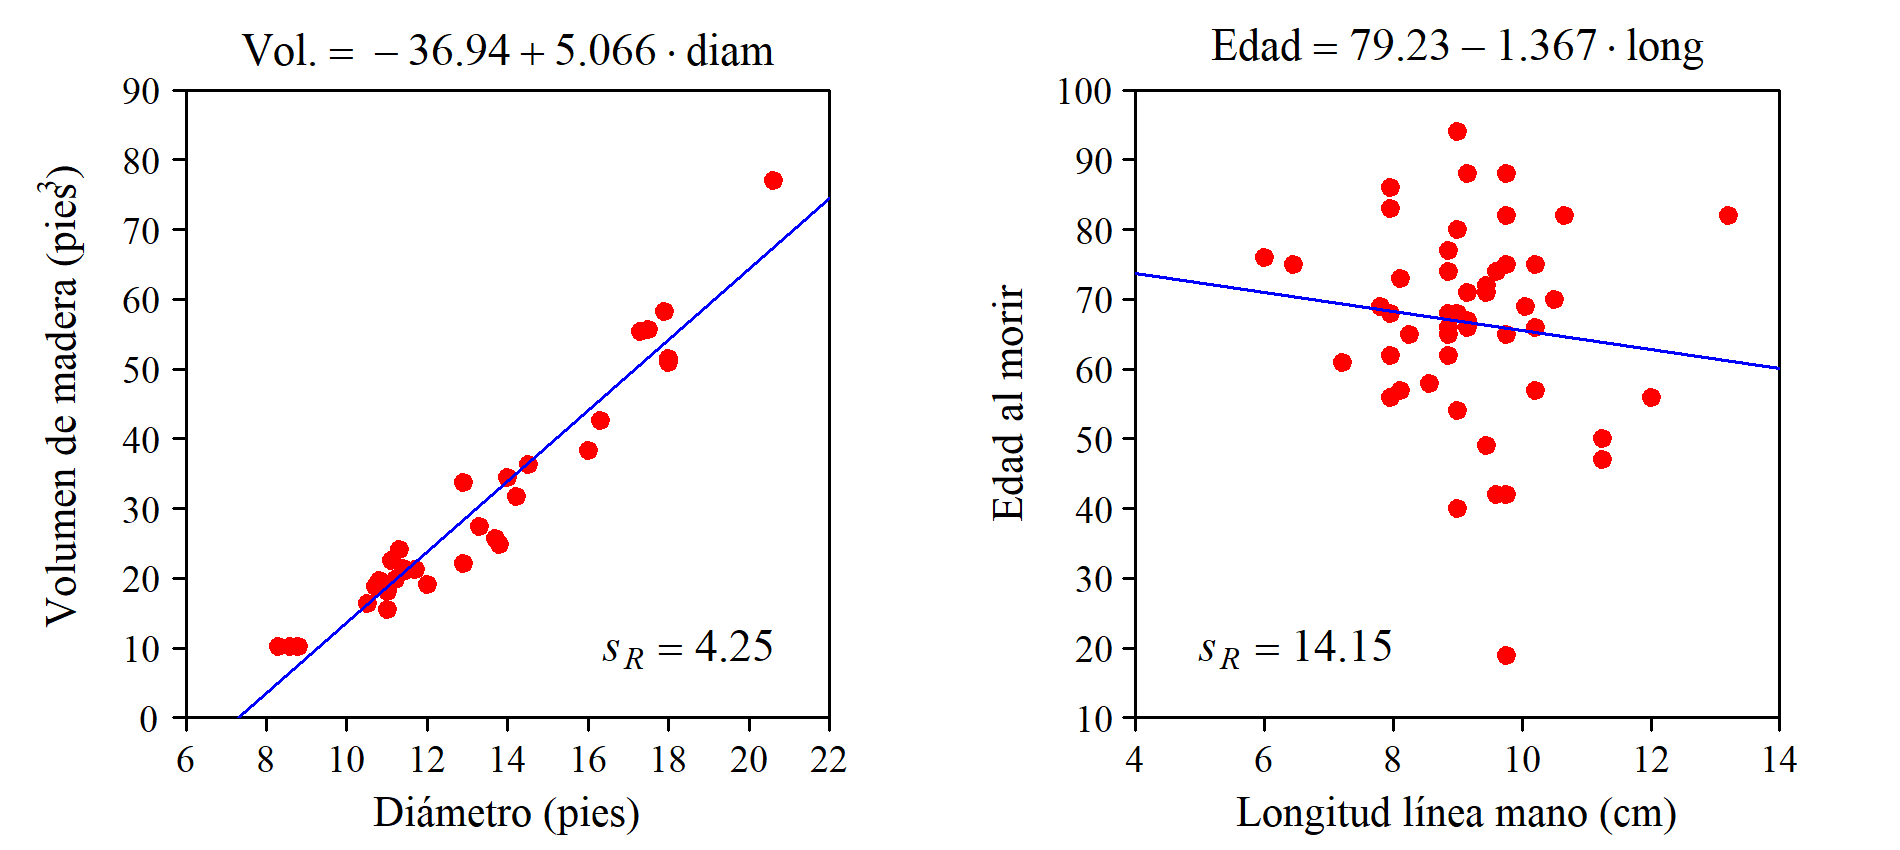
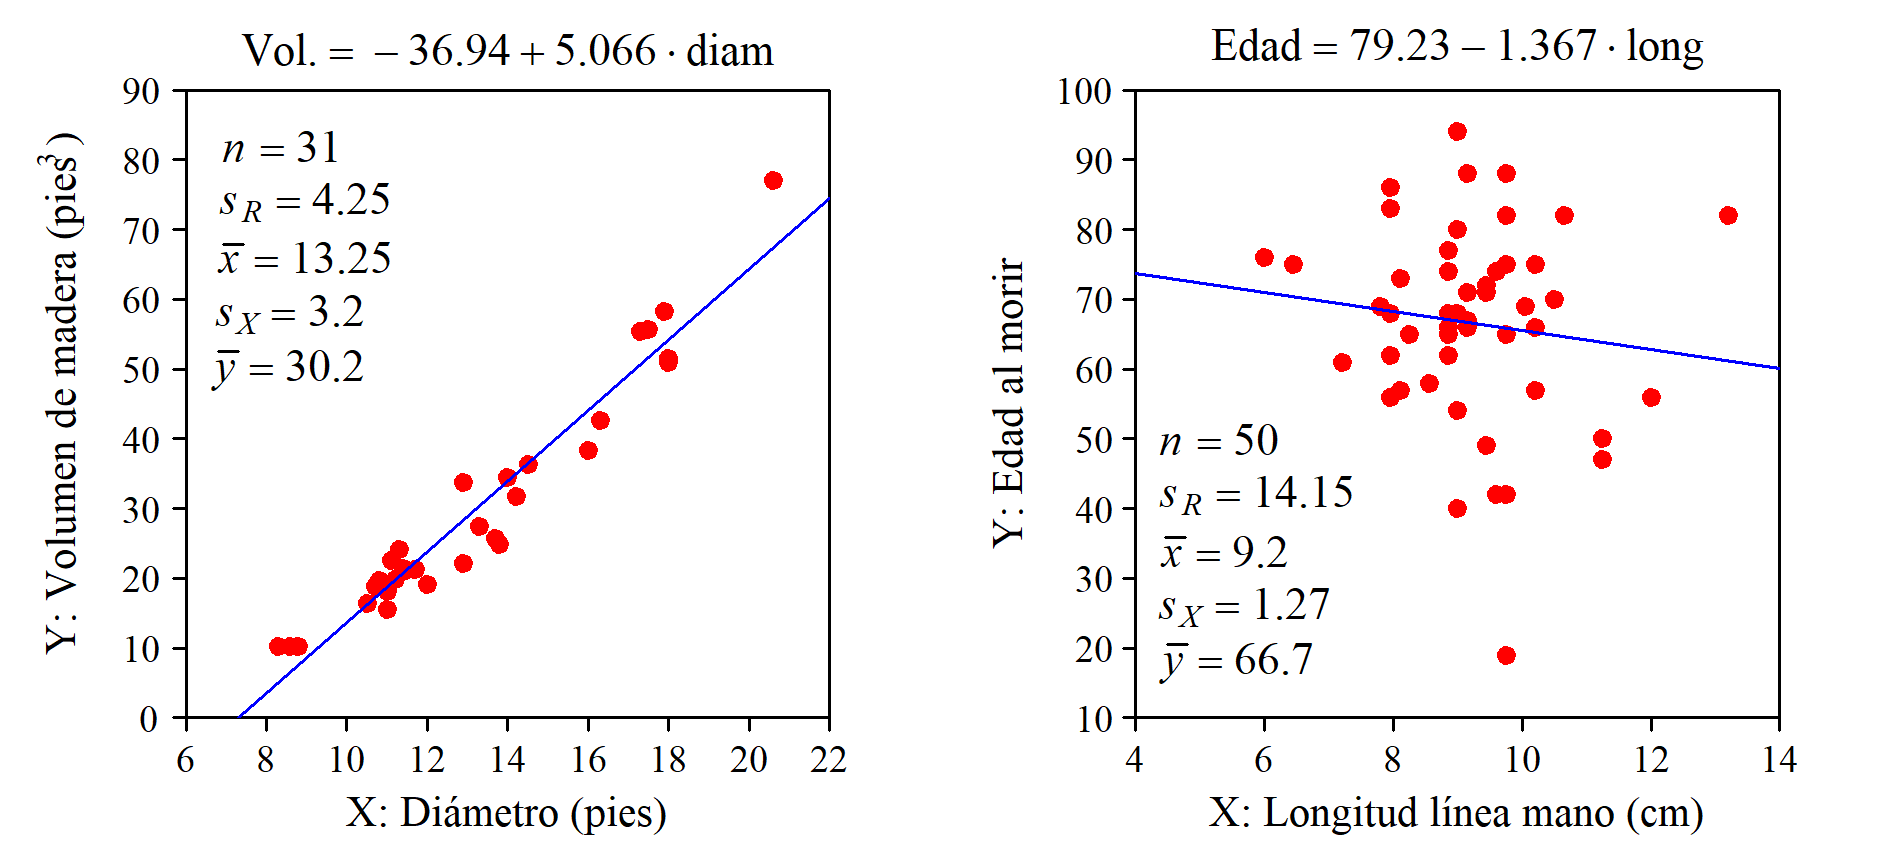
Avanzando

diff --git a/docs/62_regresionSimple.html b/docs/62_regresionSimple.html
@@ -319,7 +319,7 @@ div.csl-indent {
   <li><a href="#sin-fórmulas" id="toc-sin-fórmulas" class="nav-link" data-scroll-target="#sin-fórmulas">Sin fórmulas</a></li>
   <li><a href="#usando-las-fórmulas" id="toc-usando-las-fórmulas" class="nav-link" data-scroll-target="#usando-las-fórmulas">Usando las fórmulas</a></li>
   </ul></li>
-  <li><a href="#calidad-del-ajuste" id="toc-calidad-del-ajuste" class="nav-link" data-scroll-target="#calidad-del-ajuste"><span class="header-section-number">14.3</span> Calidad del ajuste</a></li>
+  <li><a href="#sec-calidadAjuste" id="toc-sec-calidadAjuste" class="nav-link" data-scroll-target="#sec-calidadAjuste"><span class="header-section-number">14.3</span> Calidad del ajuste</a></li>
   <li><a href="#relación-no-lineal-entre-x-e-y" id="toc-relación-no-lineal-entre-x-e-y" class="nav-link" data-scroll-target="#relación-no-lineal-entre-x-e-y"><span class="header-section-number">14.4</span> Relación no lineal entre <span class="math inline">\(X\)</span> e <span class="math inline">\(Y\)</span></a></li>
   <li><a href="#transformación-logarítmica" id="toc-transformación-logarítmica" class="nav-link" data-scroll-target="#transformación-logarítmica"><span class="header-section-number">14.5</span> Transformación logarítmica</a></li>
   <li><a href="#las-cosas-se-complican-lo-que-tenemos-es-una-muestra" id="toc-las-cosas-se-complican-lo-que-tenemos-es-una-muestra" class="nav-link" data-scroll-target="#las-cosas-se-complican-lo-que-tenemos-es-una-muestra"><span class="header-section-number">14.6</span> Las cosas se complican: Lo que tenemos es una muestra</a>
@@ -669,8 +669,8 @@ Por qué le llamamos modelo de regresión
 </div>
 </section>
 </section>
-<section id="calidad-del-ajuste" class="level2" data-number="14.3">
-<h2 data-number="14.3" class="anchored" data-anchor-id="calidad-del-ajuste"><span class="header-section-number">14.3</span> Calidad del ajuste</h2>
+<section id="sec-calidadAjuste" class="level2" data-number="14.3">
+<h2 data-number="14.3" class="anchored" data-anchor-id="sec-calidadAjuste"><span class="header-section-number">14.3</span> Calidad del ajuste</h2>
 <p>El gráfico de la izquierda de la figura <a href="#fig-ArbolMano"><span>14.8</span></a> muestra la relación entre la longitud de la circunferencia (<em>X</em>) de los troncos de un determinado tipo de árbol y el volumen de madera (<em>Y</em>) que se puede obtener de ellos <span class="citation" data-cites="WolframData2016">(Fuente: <a href="references.html#ref-WolframData2016" role="doc-biblioref">Wolfram_Data_Repository 2016</a>)</span>. Se observa que a más circunferencia mayor volumen de madera, tal como era de esperar, y la ecuación de la recta ajustada es útil para estimar cuanta madera se obtendrá de un tronco de determinado diámetro. Sin embargo, el gráfico de la derecha se ha realizado con los datos de un estudio publicado por <span class="citation" data-cites="Wilson74">Wilson y Mather (<a href="references.html#ref-Wilson74" role="doc-biblioref">1974</a>)</span> citado por <span class="citation" data-cites="Draper98">Draper y Smith (<a href="references.html#ref-Draper98" role="doc-biblioref">1998</a>)</span> donde se analiza la relación entre la edad al morir y la longitud de cierta línea de la mano a partir de una muestra de 50 personas fallecidas. A la vista del diagrama queda claro que no hay ninguna relación entre ambas variables. En este caso el modelo ajustado no sirve absolutamente para nada. Pero los dos modelos tienen el mismo aspecto y solo a la vista del valor de sus coeficientes es imposible saber cual de los dos es útil.</p>
 <div id="fig-ArbolMano" class="quarto-figure quarto-figure-center anchored">
 <figure class="figure">
@@ -821,42 +821,29 @@ Transformación logarítmica: No importa la base
 <li><p><strong>Independencia de los residuos</strong>: La desviación respecto al valor previsto (valor sobre la recta) en en un punto no da ninguna pista sobre la desviación en el punto siguiente. Esto no ocurre con las variables que evolucionan en el tiempo, como la temperatura o la cotización de acciones en la bolsa, en que el valor de un día está influenciado por el valor de día anterior.</p></li>
 </ul>
 <p>Cuando se ajustan modelos de regresión simple, la observación del diagrama bivariante de <span class="math inline">\(Y\)</span> frente a <span class="math inline">\(X\)</span> ya permite valorar si es razonable suponer que se cumplen los supuestos requeridos. Si nada hace suponer lo contrario, supondremos que se cumplen. En realidad nunca se cumpliran “exactamente” pero si el comportamiento de los datos no se aleja mucho de los supuestos realizados, los intervalos de confianza y las pruebas de significación en que estamos interesdos seguirán siendo válidos a efectos prácticos.</p>
-<div style="page-break-after: always;"></div>
 </section>
 <section id="pruebas-de-significación-para-los-coeficientes" class="level3 unnumbered">
 <h3 class="unnumbered anchored" data-anchor-id="pruebas-de-significación-para-los-coeficientes">Pruebas de significación para los coeficientes</h3>
-<p>Conocer la distribución de los coeficientes nos permite realizar pruebas de significación o, en general, contrastes de hipótesis sobre el valor de los coeficientes.</p>
-<div class="callout callout-style-default callout-note callout-titled">
-<div class="callout-header d-flex align-content-center">
-<div class="callout-icon-container">
-<i class="callout-icon"></i>
-</div>
-<div class="callout-title-container flex-fill">
-Pruebas de significación y contraste de hipótesis
-</div>
-</div>
-<div class="callout-body-container callout-body">
-<p>Una prueba de significación es un caso particular de contraste de hipótesis donde se contrasta que el valor del parámetro es igual a cero. Significación equivale a “significativamente distinto de cero” es decir, que la variabilidad aleatoria no justifica la diferencia respecto a cero.</p>
-</div>
-</div>
-<p>Volvamos a los datos del volumen de madera que se puede obtener de un árbol en función del diámetro del tronco y los datos de la edad al morir en función de la longitud de una línea de la mano. La figura <a href="#fig-modelosAjustados"><span>14.18</span></a> contiene las rectas ajustadas, el número de puntos <span class="math inline">\((n)\)</span> y el valor de la desviación típica de los residuos <span class="math inline">\((s_R)\)</span> en cada caso.</p>
+<section id="una-visión-intiuitiva-usando-la-simulación" class="level6 unnumbered">
+<h6 class="unnumbered anchored" data-anchor-id="una-visión-intiuitiva-usando-la-simulación"><strong>Una visión intiuitiva usando la simulación</strong></h6>
+<p>Usaremos los datos que ya vimos (apartado <a href="#sec-calidadAjuste"><span>14.3</span></a> ) sobre el volumen de madera que se obtiene de un árbol en función del diámetro de su tronco y sobre la edad al morir en función de la longitud de una línea de la mano. La figura <a href="#fig-modelosAjustados"><span>14.18</span></a> contiene las rectas ajustadas y también los valores que usaremos para la simulación.</p>
 <div id="fig-modelosAjustados" class="quarto-figure quarto-figure-center anchored">
 <figure class="figure">
 <p><img src="regresionSimple/200_ArbolManoModelos.png" class="img-fluid figure-img" style="width:100.0%"></p>
-<figcaption class="figure-caption">Figura&nbsp;14.18: Modelos ajustados. Los diagramas incluyen el valor de la desviación típica de los residuos.</figcaption>
+<figcaption class="figure-caption">Figura&nbsp;14.18: Modelos ajustados. Se indica el número de datos (<span class="math inline">\(n\)</span>), la desviación típica de los residuos (<span class="math inline">\(s_R\)</span>), la media y la desviación típica de los valores de <span class="math inline">\(X\)</span> (<span class="math inline">\(\bar{x}\)</span> y <span class="math inline">\(s_X\)</span>) y la media de los valores de Y (<span class="math inline">\(\bar{y}\)</span>).</figcaption>
 </figure>
 </div>
-<p>Si no hay ninguna relación entre la variable regresora (<span class="math inline">\(X\)</span>) y la respuesta (<span class="math inline">\(Y\)</span>), la pendiente de la recta estará en torno a cero (sería igual a cero en la población, pero no disponemos de esos datos que –además– son solo un modelo teórico). Para ver lo que significa ese “en torno a cero” en los casos que estamos tratando, podemos simular nubes de puntos suponiendo que no existe ninguna relación entre <span class="math inline">\(X\)</span> e <span class="math inline">\(Y\)</span> manteniendo las características de estas variable en los ejemplos que estamos tratando.</p>
-<p>Para realizar la simulación, en el caso del volumen de madera, para el diámetro de los troncos (<span class="math inline">\(X\)</span>) generamos 31 números aleatorios (una cantidad igual a nuestro tamaño de muestra) de una distribución Normal con la media y la desviación típica de los valores que aparecen en la muestra, es decir: <span class="math inline">\(X \sim N(13.25; 3.2)\)</span>. A cada valor de <span class="math inline">\(X\)</span> de corresponderá un valor de la respuesta igual a la media de los valores e <span class="math inline">\(Y\)</span> –tomaremos de de los datos disponibles– añadiendo una variabilidad aleatoria que introducimos sumando al valor de Ybarra un número aleatorio de una distribución Normal con media cero (ni sube ni baja de forma sistemática el valor de la respuesta) y una desviación típica igual a la que presentan los residuos del modelo ajustado. Por tanto, tendremos: <span class="math inline">\(Y = 30.2 + N(0; 4.25)\)</span>.</p>
-<p>Para el modelo de la edad al morir hacemos exactamente lo mismo con los datos que corresponden. La tabla <a href="#tbl-parametrosSimulacion"><span>14.5</span></a> contine los valores usados para la simulación en cada caso.</p>
+<p>Si no hay ninguna relación entre la variable regresora (<span class="math inline">\(X\)</span>) y la respuesta (<span class="math inline">\(Y\)</span>), la pendiente de la recta estará en torno a cero (será igual a cero en la población, pero no disponemos de esos datos que –además– son solo un modelo teórico). Para ver lo que significa “en torno a cero” en los casos que estamos tratando, podemos simular nubes de puntos manteniendo las características de <span class="math inline">\(X\)</span> e <span class="math inline">\(Y\)</span> de forma independiente, suponiendo que no existe ninguna relación entre ellas.</p>
+<p>En el caso del volumen de madera empezamos generando 31 números aleatorios (una cantidad igual a nuestro tamaño de muestra) que asignamos al diámetro de los troncos. Para que estos datos se puedan considerar del mismo tipo de los que tenemos en la muestra es razonable generarlos de una distribución Normal con la media <span class="math inline">\((\bar{x} = 13.25)\)</span> y la desviación típica <span class="math inline">\((s_X = 3.2)\)</span> de los valores que aparecen en la muestra, es decir: <span class="math inline">\(X \sim N(13.25; 3.2)\)</span>. A continuación, a cada valor de <span class="math inline">\(X\)</span> le hacemos corresponder un valor de <span class="math inline">\(Y\)</span> igual a la media de los valores disponibles <span class="math inline">\((\bar{y} = 30.2)\)</span> añadiendo un número aleatorio de una distribución Normal con media cero (ni sube ni baja de forma sistemática el valor de la respuesta) y una desviación típica igual a la que presentan los residuos del modelo ajustado <span class="math inline">\((s_R = 4.25)\)</span>. Por tanto, tendremos: <span class="math inline">\(Y = 30.2 + N(0; 4.25)\)</span>.</p>
+<p>Para el modelo de la edad al morir hacemos exactamente lo mismo con los valores que corresponden. La tabla <a href="#tbl-parametrosSimulacion"><span>14.5</span></a> contiene los usados en cada caso.</p>
 <div id="tbl-parametrosSimulacion" class="anchored">
 <table class="table">
 <caption>Tabla&nbsp;14.5: Valores usados para la simulación.</caption>
 <colgroup>
+<col style="width: 26%">
+<col style="width: 20%">
+<col style="width: 22%">
 <col style="width: 28%">
-<col style="width: 13%">
-<col style="width: 24%">
-<col style="width: 31%">
 </colgroup>
 <thead>
 <tr class="header">
@@ -882,16 +869,30 @@ Pruebas de significación y contraste de hipótesis
 </tbody>
 </table>
 </div>
-<p>Para conjunto de puntos simulados se ha calculado la recta ajustada. En los dos casos la simulación se ha repetido 50 veces y se han ido acululando, tanto los puntos como las rectas ajustadas, en los diagramas de la figura <a href="#fig-pruebasSignificacion"><span>14.19</span></a>. Está muy claro que en el caso del volumen de madera, la recta ajustada con nuestros datos no se puede confundir con los generados aleatoriamente suponiendo que no hay relación entre ambas variables, sin embargo….</p>
-<p>Aunque a la vista de los gráficos ya se ve muy claro que el caso del volumen de madera la pendiente es significativa y en el de la línea de la mano seguramente no lo es, vamos a comprobar por simulación que, efectivametne, es así.</p>
+<p>Para cada conjunto de puntos simulados se ha calculado la recta ajustada. En los dos casos la simulación se ha repetido 50 veces y en los diagramas de la figura <a href="#fig-pruebasSignificacion"><span>14.19</span></a> se han ido acumulando tanto los puntos como las rectas ajustadas. También se ha añadido, de color verde, la línea correspondiente a los datos de la muestra. Está muy claro que en el caso del volumen de madera, la recta ajustada con los datos de la muestra no se puede confundir con los generados aleatoriamente suponiendo que no hay relación entre ambas variables.Sin embargo, en el caso de la edad al morir, la recta que corresponde a los datos disponibles se confunde con las que hemos simulado para situaciones en que no hay ninguna relación entre las variables consideradas.</p>
 <div id="fig-pruebasSignificacion" class="quarto-figure quarto-figure-center anchored">
 <figure class="figure">
 <p><img src="regresionSimple/210_pruebasSignaficacion.png" class="img-fluid figure-img" style="width:100.0%"></p>
 <figcaption class="figure-caption">Figura&nbsp;14.19: Distribución de los coeficientes.</figcaption>
 </figure>
 </div>
-<p><strong>Contraste para</strong> <span class="math inline">\(\beta_0\)</span></p>
-<p>===Quizá reflexión sobre como lo haríamos de manera informal===</p>
+<p>Aunque a la vista de los gráficos ya se ve muy claro que el caso del volumen de madera la pendiente es significativa y en el de la línea de la mano seguramente no lo es, vamos a comprobar por simulación que, efectivametne, es así. Conocer la distribución de los coeficientes nos permite realizar pruebas de significación o, en general, contrastes de hipótesis sobre el valor de los coeficientes.</p>
+<div class="callout callout-style-default callout-note callout-titled">
+<div class="callout-header d-flex align-content-center">
+<div class="callout-icon-container">
+<i class="callout-icon"></i>
+</div>
+<div class="callout-title-container flex-fill">
+Pruebas de significación y contraste de hipótesis
+</div>
+</div>
+<div class="callout-body-container callout-body">
+<p>Una prueba de significación es un caso particular de contraste de hipótesis donde se contrasta que el valor del parámetro es igual a cero. Significación equivale a “significativamente distinto de cero” es decir, que la variabilidad aleatoria no justifica la diferencia respecto a cero.</p>
+</div>
+</div>
+</section>
+<section id="pruebas-de-significación-formales" class="level6 unnumbered">
+<h6 class="unnumbered anchored" data-anchor-id="pruebas-de-significación-formales"><strong>Pruebas de significación formales</strong></h6>
 <p>En general se contrasta <span class="math inline">\(H_0: \beta_0=0\)</span> frente a <span class="math inline">\(H_1: \beta_0 \neq 0\)</span>. Tiene interés cuando se tienen razones para pensar que la recta pasa por el origen y se desea verificar que los resultados obtenidos no están en contradicción con ese supuesto.</p>
 <p>Como <span class="math inline">\(b_0 \sim N \left(\beta_0; \; \sigma_{\beta_0} \right)\)</span>, si <span class="math inline">\(\beta_0 = 0\)</span> tenemos:</p>
 <p><span class="math display">\[ \frac{b_0-0}{\sigma_{\beta_0}} \sim N (0; 1) \]</span></p>
@@ -925,6 +926,7 @@ Ligando las pruebas se significación para <span class="math inline">\(r\)</span
 <p>Aquí texto</p>
 </div>
 </div>
+</section>
 </section>
 <section id="intervalos-de-confianza-para-la-respuesta" class="level3" data-number="14.6.1">
 <h3 data-number="14.6.1" class="anchored" data-anchor-id="intervalos-de-confianza-para-la-respuesta"><span class="header-section-number">14.6.1</span> Intervalos de confianza para la respuesta</h3>
